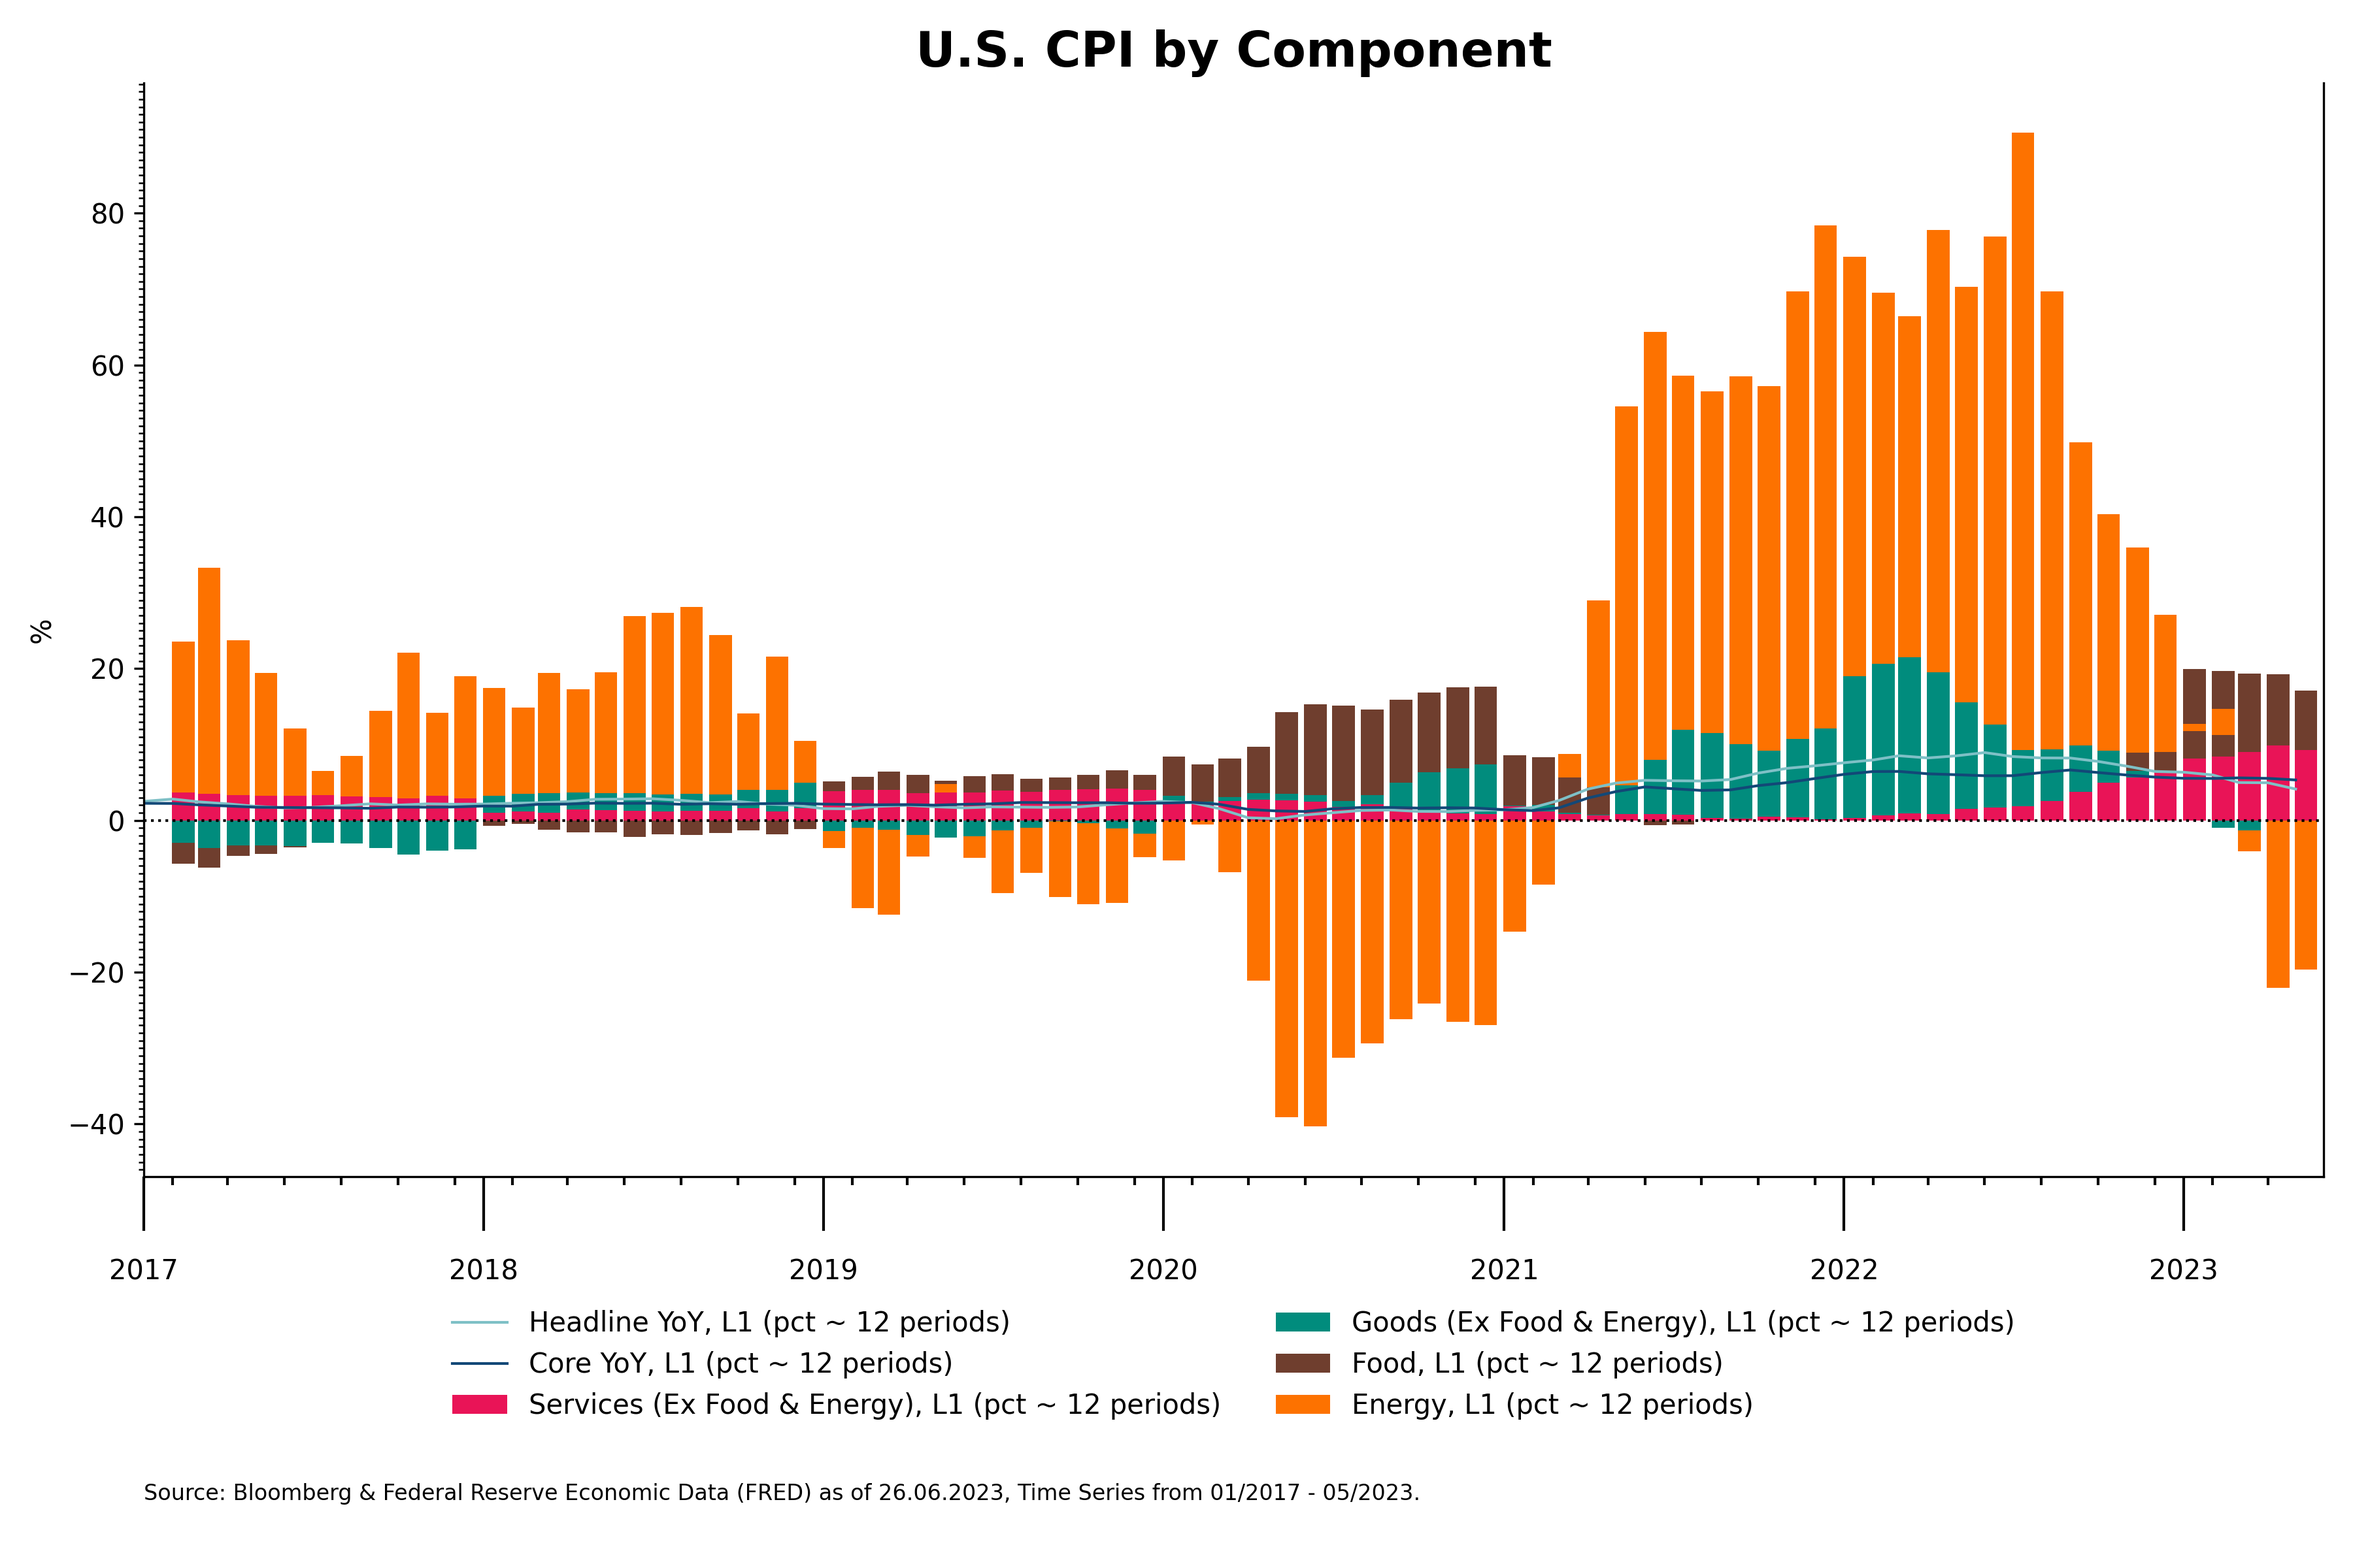
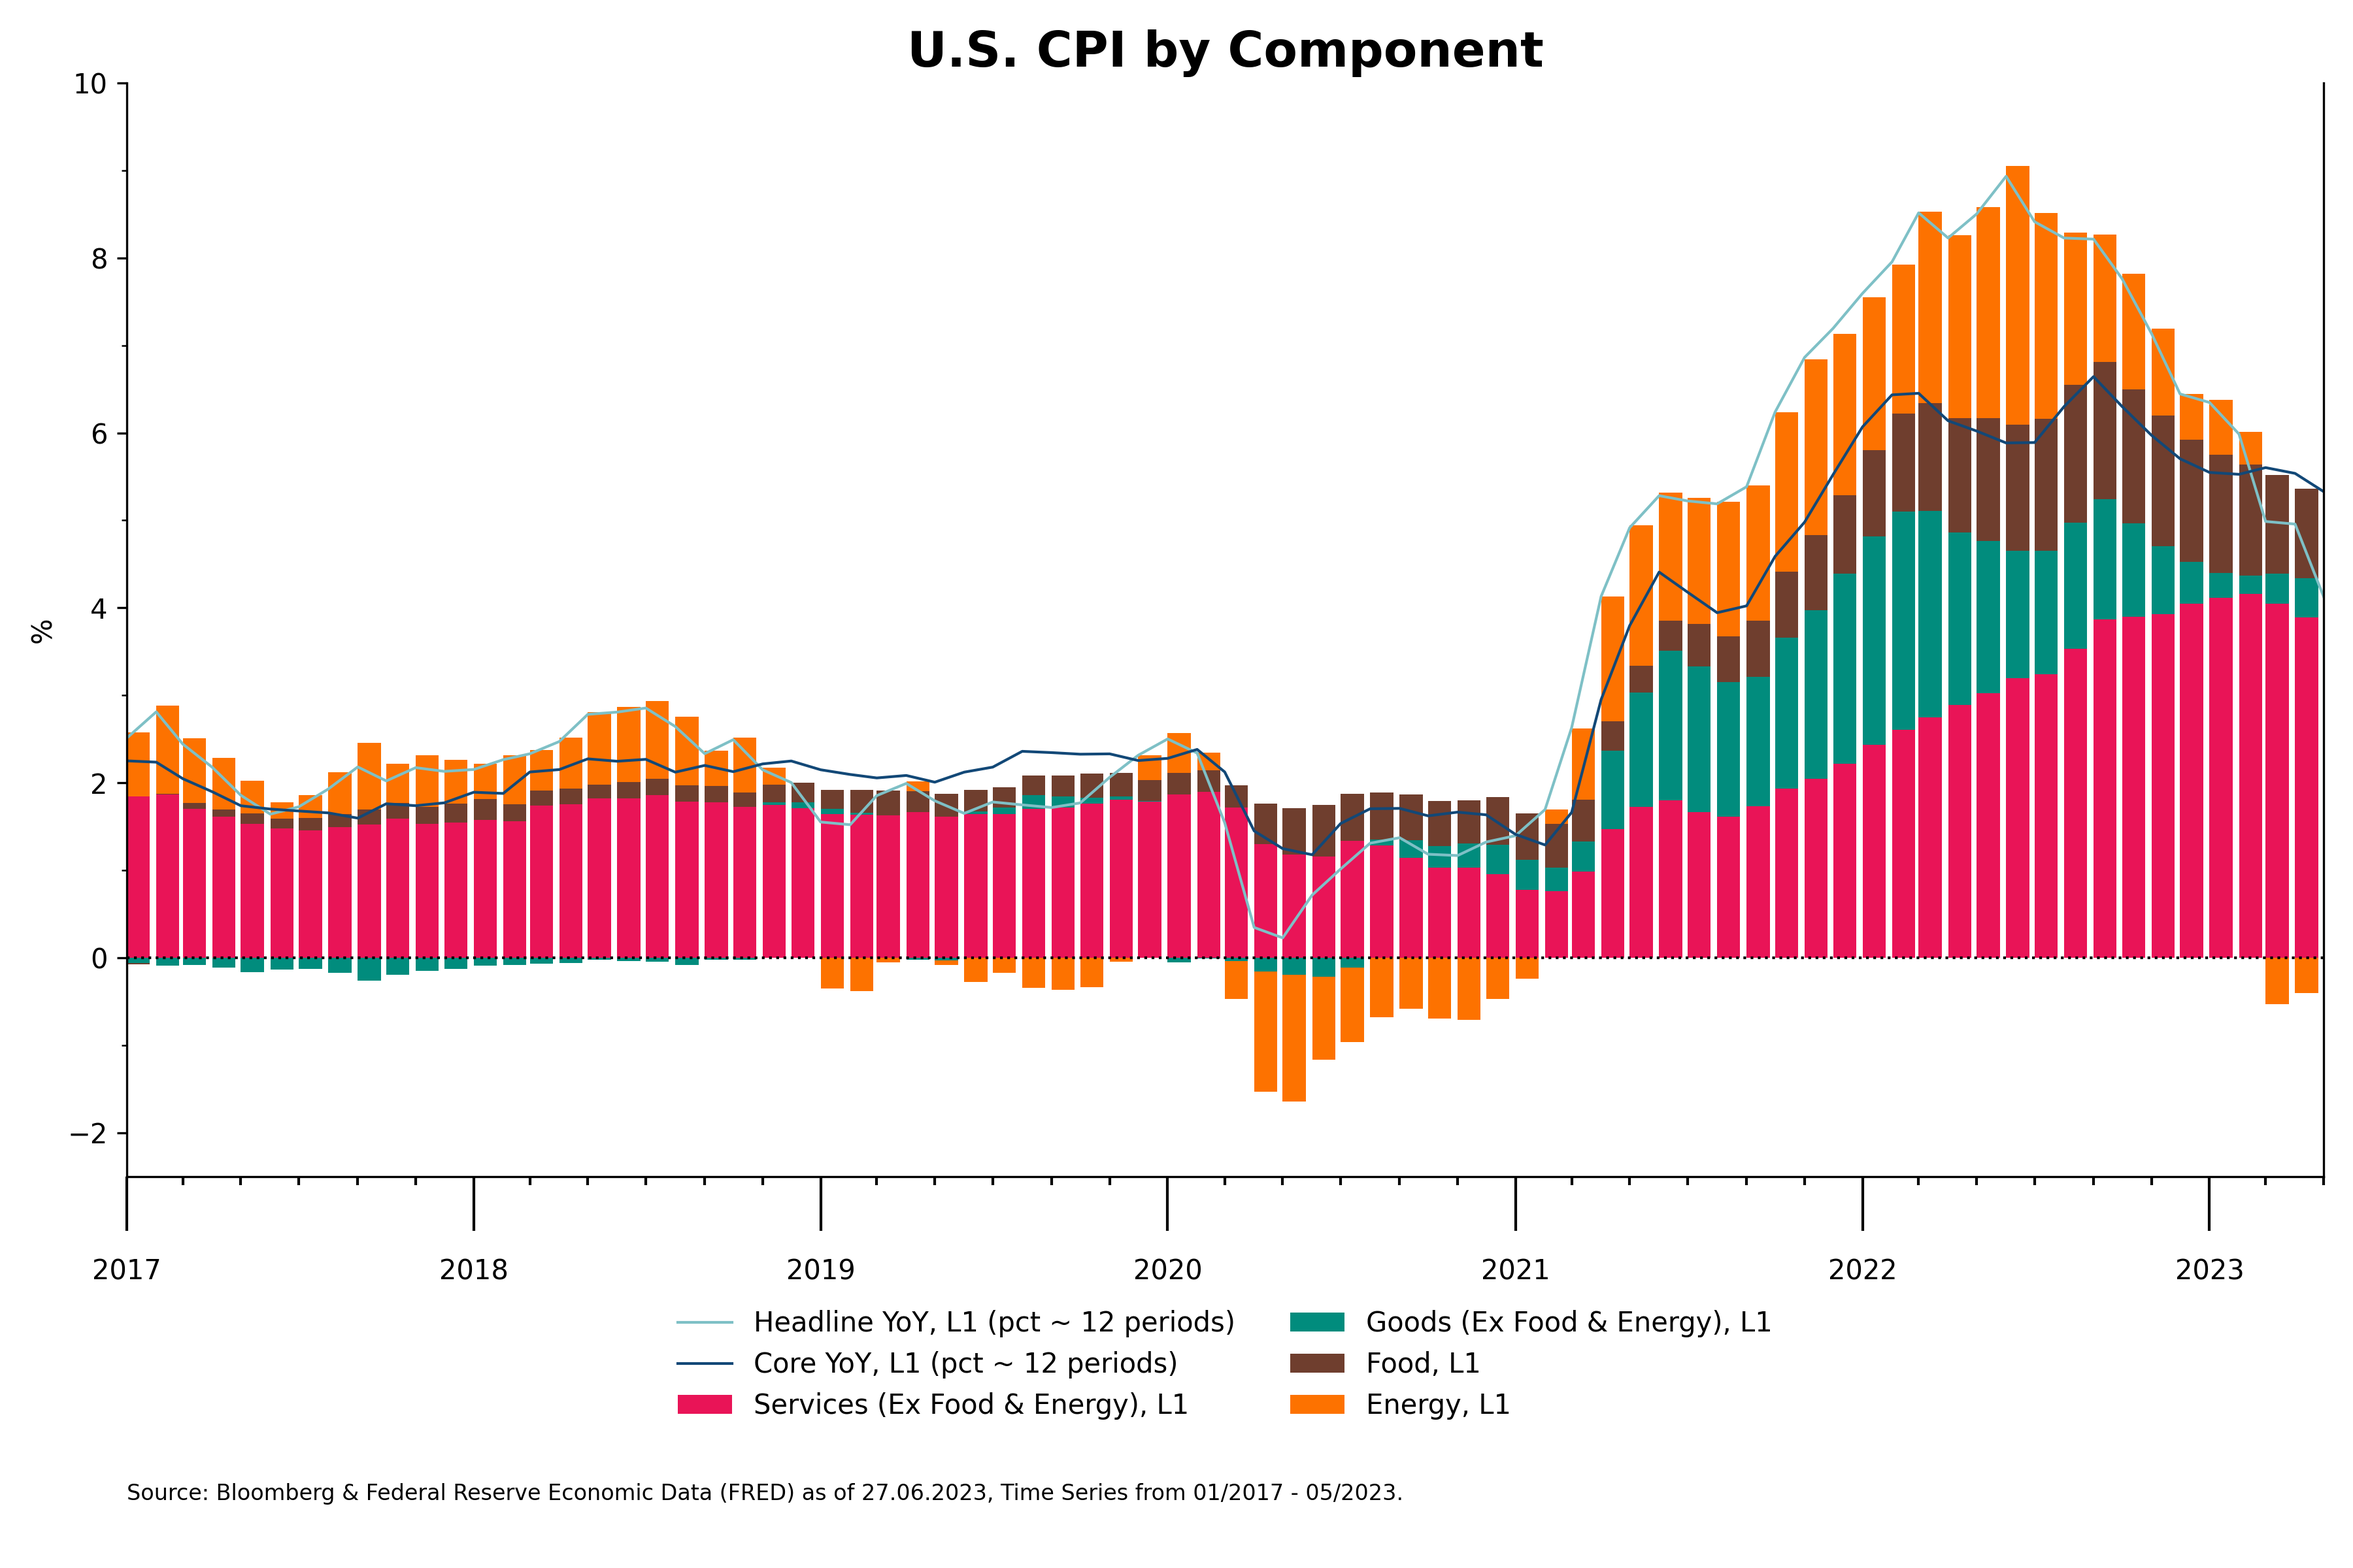
finished inflation chart

diff --git a/examples/inflation.py b/examples/inflation.py
@@ -1,4 +1,6 @@
+import pandas as pd
 from matplotlib.ticker import AutoLocator, MultipleLocator
+from pandas import DataFrame
 
 from charting.charts.time_series_chart import TimeSeriesChart
 from charting.transformer.pct import Pct
@@ -11,24 +13,36 @@ if __name__ == '__main__':
     core_df, core_title = fred.get_series(series_id='CPILFESL', observation_start='2016-01-01')
 
     food_df, _ = blp.get_series(series_id='CPSFFOOD Index', observation_start='20160101')
+    x, y = Pct(periods=12).transform(food_df.index, food_df['y'])
+    food_df = DataFrame({'y': y}, index=x)
     food_weights_df, _ = blp.get_series(series_id='CPIVFOOD Index', observation_start='20160101')
-    food_df['weighted'] = food_df['y'] * food_weights_df['y'] / 100
+    food_df['weighted'] = food_df['y'] * food_weights_df['y'].shift(12) / 100
+    food_df.index = food_df.index.to_period('M').to_timestamp(how='start')
 
     energy_df, _ = blp.get_series(series_id='CPUPENER Index', observation_start='20160101')
     energy_weights_df, _ = blp.get_series(series_id='CPIVENER Index', observation_start='20160101')
-    energy_df['weighted'] = energy_df['y'] * energy_weights_df['y'] / 100
+    x, y = Pct(periods=12).transform(energy_df.index, energy_df['y'])
+    energy_df = DataFrame({'y': y}, index=x)
+    energy_df['weighted'] = energy_df['y'] * energy_weights_df['y'].shift(12) / 100
+    energy_df.index = energy_df.index.to_period('M').to_timestamp(how='start')
 
     goods_df, _ = blp.get_series(series_id='CPUPCXFE Index', observation_start='20160101')
     goods_weights_df, _ = blp.get_series(series_id='CPIVCLFE Index', observation_start='20160101')
-    goods_df['weighted'] = goods_df['y'] * goods_weights_df['y'] / 100
+    x, y = Pct(periods=12).transform(goods_df.index, goods_df['y'])
+    goods_df = DataFrame({'y': y}, index=x)
+    goods_df['weighted'] = goods_df['y'] * goods_weights_df['y'].shift(12) / 100
+    goods_df.index = goods_df.index.to_period('M').to_timestamp(how='start')
 
     services_df, _ = blp.get_series(series_id='CPUPSXEN Index', observation_start='20160101')
     services_weights_df, _ = blp.get_series(series_id='CPIVSLES Index', observation_start='20160101')
-    services_df['weighted'] = services_df['y'] * services_weights_df['y'] / 100
+    x, y = Pct(periods=12).transform(services_df.index, services_df['y'])
+    services_df = DataFrame({'y': y}, index=x)
+    services_df['weighted'] = services_df['y'] * services_weights_df['y'].shift(12) / 100
+    services_df.index = services_df.index.to_period('M').to_timestamp(how='start')
 
     chart = TimeSeriesChart(title="U.S. CPI by Component", num_y_axes=1)
 
-    chart.configure_y_axis(axis_index=0, label="%", minor_locator=MultipleLocator(1))
+    chart.configure_y_axis(axis_index=0, label="%", minor_locator=MultipleLocator(1), y_lim=(-2.5, 10))
 
     major_locator = mdates.YearLocator(base=1)
     minor_locator = mdates.MonthLocator(interval=2)
@@ -44,14 +58,16 @@ if __name__ == '__main__':
     chart.add_data(x=core_df.index, y=core_df['y'], label="Core YoY", y_axis=0, transformer=Pct(periods=12))
 
     chart.add_data(x=services_df.index, y=services_df['weighted'], chart_type='bar', stacked=True,
-                   label="Services (Ex Food & Energy)", y_axis=0, transformer=Pct(periods=12))
+                   label="Services (Ex Food & Energy)", y_axis=0)
+
     chart.add_data(x=goods_df.index, y=goods_df['weighted'], chart_type='bar', stacked=True,
                    label="Goods (Ex Food & Energy)",
-                   y_axis=0, transformer=Pct(periods=12))
-    chart.add_data(x=food_df.index, y=food_df['weighted'], chart_type='bar', stacked=True, label="Food", y_axis=0,
-                   transformer=Pct(periods=12))
+                   y_axis=0)
+
+    chart.add_data(x=food_df.index, y=food_df['weighted'], chart_type='bar', stacked=True, label="Food", y_axis=0)
+
     chart.add_data(x=energy_df.index, y=energy_df['weighted'], chart_type='bar', stacked=True, label="Energy",
-                   y_axis=0, transformer=Pct(periods=12))
+                   y_axis=0)
 
     chart.legend(frameon=False, ncol=2)
     chart.plot(path="output/inflation.png")

diff --git a/charting/charts/time_series_chart.py b/charting/charts/time_series_chart.py
@@ -99,16 +99,12 @@ class TimeSeriesChart(Chart):
                     for idx, patches in enumerate(zip(*all_patches)):
                         bottom = 0
                         if y[idx] > 0:
-                            bottom = max(patch.get_height() for patch in patches)
-                            if np.sign(bottom) == -1:
-                                bottom = 0
+                            # if bar value > 0, just sum all positive bars and use this as bottom
+                            bottom = sum([patch.get_height() for patch in patches if np.sign(patch.get_height()) == 1])
                         if y[idx] < 0:
-                            bottom = min(patch.get_height() for patch in patches)
-                            if np.sign(bottom) == 1:
-                                bottom = 0
+                            bottom = sum([patch.get_height() for patch in patches if np.sign(patch.get_height()) == -1])
 
                         bar_bottom.append(bottom)
-
                 else:
                     bar_bottom = np.zeros(len(x))
 
